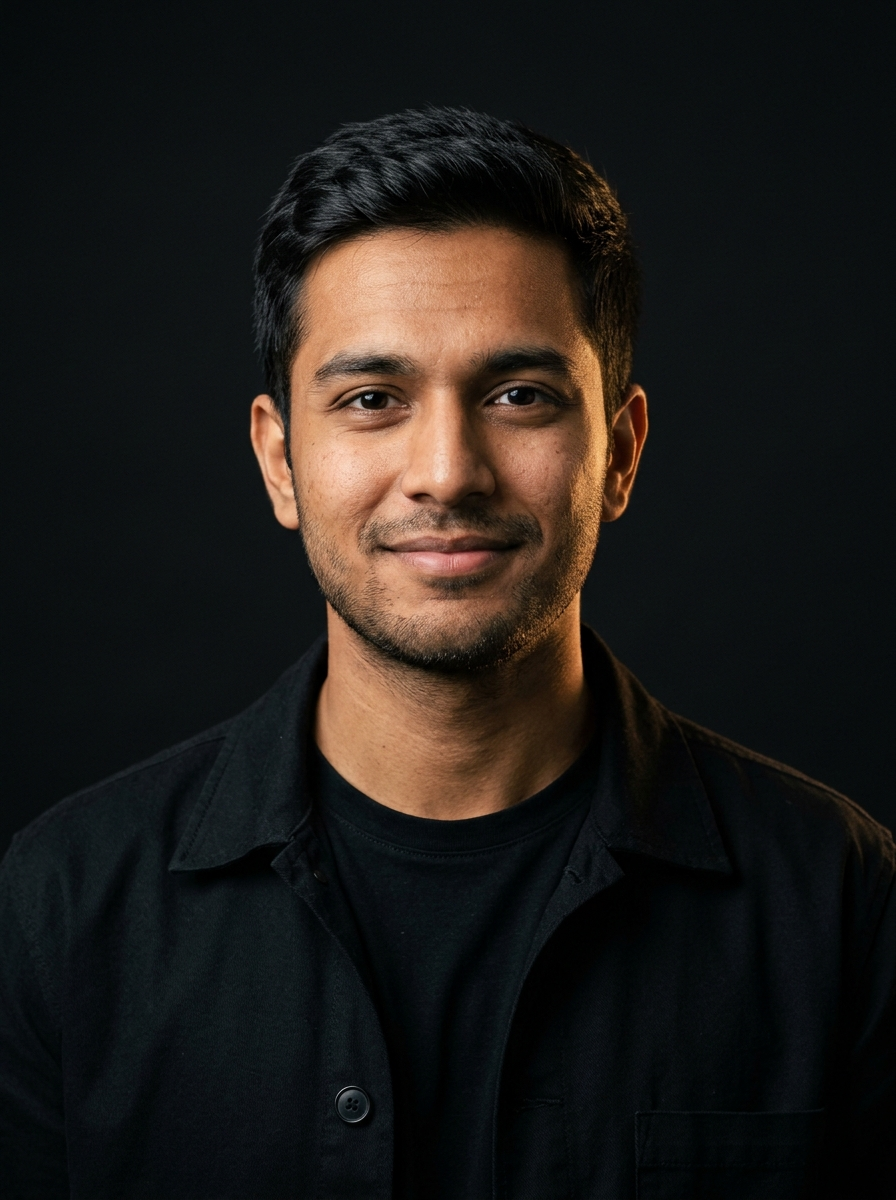
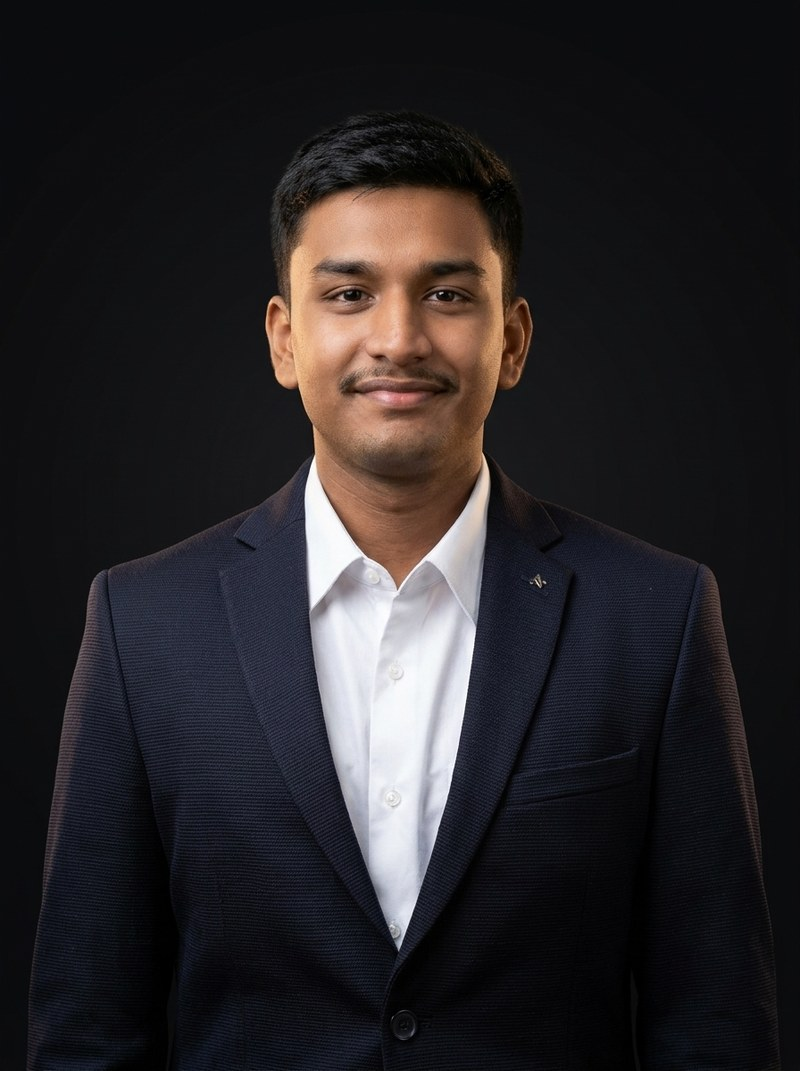
Replace hero portrait with user's real photo on dark studio background

Changed region(s): [[0.0312, 0.0924, 1.0, 1.0], [0.1875, 0.7703, 0.2188, 0.8627], [0.375, 0.8936, 0.4062, 0.9552]]

diff --git a/data/portfolio.ts b/data/portfolio.ts
@@ -91,7 +91,7 @@ export const PORTFOLIO_CONTENT = {
     },
     resumePath: '/resume.pdf', // PLACEHOLDER
     resumeFileName: 'Krishna_Sahu_Resume.pdf', // PLACEHOLDER
-    avatarUrl: '/profile.jpg', // PLACEHOLDER - replace public/profile.jpg with your own photo
+    avatarUrl: '/profile.jpg',
     coordinates: '// 12.9716° N, 77.5946° E', // PLACEHOLDER
     heroBadgeTag: '// FULL-STACK + AI/ML',
   },
